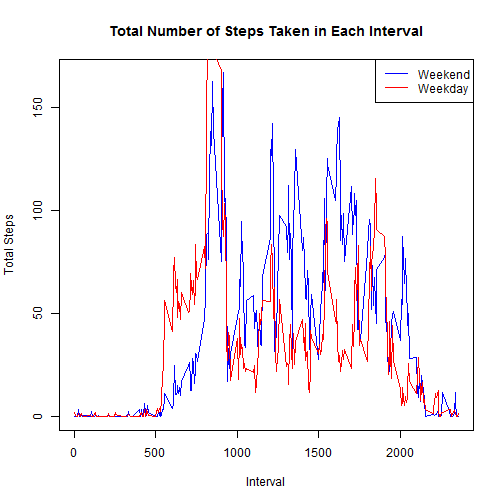
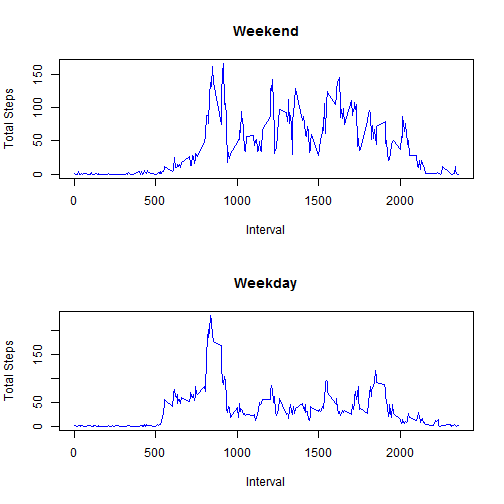
modified

diff --git a/PA1_template.html b/PA1_template.html
@@ -305,6 +305,8 @@ hr {
 <li>Devise a strategy for filling in all of the missing values in the dataset. The strategy does not need to be sophisticated. For example, you could use the mean/median for that day, or the mean for that 5-minute interval, etc.</li>
 </ol>
 
+<p>In order to fill in missing values, my strategy is to replace each NA with the mean for the interval where that NA exists</p>
+
 <pre><code class="r">    #to substitute the NA values in steps, fill in each NA with mean for that interval
     new_DF &lt;- sqldf(&#39;SELECT d.date, d.interval, 
                      CASE WHEN steps IS NULL THEN i.totalSteps ELSE steps END AS noNASteps 
@@ -382,15 +384,14 @@ hr {
     new_DF_weekend &lt;- subset(new_DF_eachInterval, dayType == &quot;Weekend&quot;)
     new_DF_weekday &lt;- subset(new_DF_eachInterval, dayType == &quot;Weekday&quot;)
 
+    par(mfrow=c(2,1))
     plot(new_DF_weekend$interval, new_DF_weekend$totalSteps, type = &quot;l&quot;, col=&quot;blue&quot;,
-          main=&quot;Total Number of Steps Taken in Each Interval&quot;, xlab=&quot;Interval&quot;, ylab=&quot;Total Steps&quot;)
-    #add additional lines
-    lines(new_DF_weekday$interval, new_DF_weekday$totalSteps,  col=&quot;red&quot;)
-    #add legend
-    legend(&quot;topright&quot;, legend = c(&quot;Weekend&quot;,&quot;Weekday&quot;),lty=c(1,1),col=c(&quot;blue&quot;,&quot;red&quot;))
+          main=&quot;Weekend&quot;, xlab=&quot;Interval&quot;, ylab=&quot;Total Steps&quot;)
+    plot(new_DF_weekday$interval, new_DF_weekday$totalSteps, type = &quot;l&quot;, col=&quot;blue&quot;,
+         main=&quot;Weekday&quot;, xlab=&quot;Interval&quot;, ylab=&quot;Total Steps&quot;)
 </code></pre>
 
[2 lines of base64/hex data omitted]
 
 </body>
 

diff --git a/PA1_template.md b/PA1_template.md
@@ -125,6 +125,7 @@ Note that there are a number of days/intervals where there are missing values (c
 
 2. Devise a strategy for filling in all of the missing values in the dataset. The strategy does not need to be sophisticated. For example, you could use the mean/median for that day, or the mean for that 5-minute interval, etc.
 
+In order to fill in missing values, my strategy is to replace each NA with the mean for the interval where that NA exists
 
 
 ```r
@@ -217,12 +218,11 @@ Note that there are a number of days/intervals where there are missing values (c
     new_DF_weekend <- subset(new_DF_eachInterval, dayType == "Weekend")
     new_DF_weekday <- subset(new_DF_eachInterval, dayType == "Weekday")
     
+    par(mfrow=c(2,1))
     plot(new_DF_weekend$interval, new_DF_weekend$totalSteps, type = "l", col="blue",
-          main="Total Number of Steps Taken in Each Interval", xlab="Interval", ylab="Total Steps")
-    #add additional lines
-    lines(new_DF_weekday$interval, new_DF_weekday$totalSteps,  col="red")
-    #add legend
-    legend("topright", legend = c("Weekend","Weekday"),lty=c(1,1),col=c("blue","red"))
+          main="Weekend", xlab="Interval", ylab="Total Steps")
+    plot(new_DF_weekday$interval, new_DF_weekday$totalSteps, type = "l", col="blue",
+         main="Weekday", xlab="Interval", ylab="Total Steps")
 ```
 
 ![plot of chunk unnamed-chunk-11](figure/unnamed-chunk-11-1.png) 
